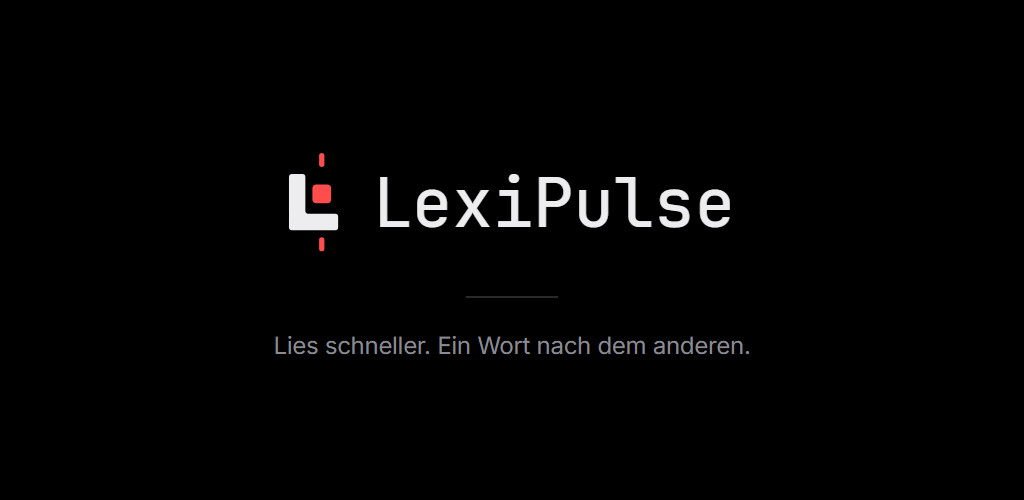
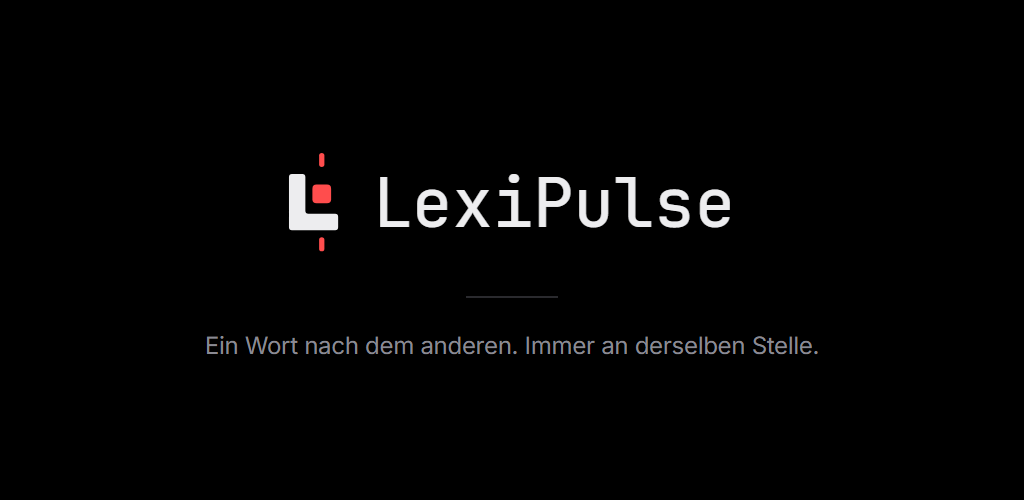
Seed the screenshot browser with a demo library
A live capture only beats a rebuilt template if the app has something to show. With an
empty IndexedDB the statistics screen renders zeros, and zeros under the headline
"see how much you really read" promise the opposite of what the picture delivers.

The capture now writes a public-domain library into the app's own origin before it
navigates. Library cards report the length of the real work rather than the length of
the excerpt, because "Die Verwandlung, 188 words, under 1 min" reads as a broken app.

Also drops the German feature-graphic line. "Lies schneller" is a promise about the
reader's result, and the store description says outright that this depends on the text
and the person. An advert contradicting its own product description is needless
exposure under UWG section 5.

Changed region(s): [[0.1875, 0.66, 0.8125, 0.72]]

diff --git a/packages/assets/src/seed.ts b/packages/assets/src/seed.ts
@@ -1,0 +1,248 @@
+/**
+ * Demo library for the store screenshots.
+ *
+ * A live capture of the real web app is only better than a rebuilt template if the app
+ * actually has something to show. An empty statistics screen under the headline
+ * "see how much you really read" is worse than no screenshot at all, so the capture
+ * seeds the browser's IndexedDB before it navigates.
+ *
+ * This is illustrative UI content, the way every store listing shows a populated app.
+ * It is not a claim about anyone else: no user counts, no ratings, no testimonials.
+ * The books are public domain.
+ */
+
+const DAY = 86_400_000;
+
+/** `YYYY-MM-DD` in local time — the key format `LexiStore.dayKey` writes. */
+function dayKey(timestamp: number): string {
+  const d = new Date(timestamp);
+  const month = String(d.getMonth() + 1).padStart(2, '0');
+  const day = String(d.getDate()).padStart(2, '0');
+  return `${d.getFullYear()}-${month}-${day}`;
+}
+
+interface SeedBook {
+  id: string;
+  title: string;
+  author: string;
+  source: 'epub' | 'pdf' | 'html';
+  language: string;
+  chapters: { title: string; text: string }[];
+  /**
+   * Length of the real work. The excerpt below is only what the reader would show on
+   * screen; a library card that says "188 Wörter · noch ca. unter 1 Min." next to
+   * "Die Verwandlung" would look broken, because no reader has a 188-word novella.
+   */
+  words: number;
+  /** Fraction read. */
+  percent: number;
+  /** Days ago the book was last opened. */
+  lastOpenedDaysAgo: number;
+}
+
+const BOOKS: SeedBook[] = [
+  {
+    id: 'epub_die-verwandlung_seed01',
+    title: 'Die Verwandlung',
+    author: 'Franz Kafka',
+    source: 'epub',
+    language: 'de',
+    words: 19_340,
+    percent: 0.23,
+    lastOpenedDaysAgo: 0,
+    chapters: [
+      {
+        title: 'Kapitel 1',
+        text: [
+          'Als Gregor Samsa eines Morgens aus unruhigen Träumen erwachte, fand er sich in seinem Bett zu einem ungeheueren Ungeziefer verwandelt. Er lag auf seinem panzerartig harten Rücken und sah, wenn er den Kopf ein wenig hob, seinen gewölbten, braunen, von bogenförmigen Versteifungen geteilten Bauch.',
+          'Seine vielen, im Vergleich zu seinem sonstigen Umfang kläglich dünnen Beine flimmerten ihm hilflos vor den Augen. Was ist mit mir geschehen, dachte er. Es war kein Traum. Sein Zimmer, ein richtiges, nur etwas zu kleines Menschenzimmer, lag ruhig zwischen den vier wohlbekannten Wänden.',
+          'Über dem Tisch, auf dem eine auseinandergepackte Musterkollektion von Tuchwaren ausgebreitet war, hing das Bild, das er vor kurzem aus einer illustrierten Zeitschrift ausgeschnitten und in einem hübschen, vergoldeten Rahmen untergebracht hatte.',
+        ].join('\n\n'),
+      },
+      {
+        title: 'Kapitel 2',
+        text: [
+          'Erst in der Dämmerung erwachte Gregor aus seinem schweren, ohnmachtsähnlichen Schlaf. Er wäre gewiß nicht viel später auch ohne Störung erwacht, denn er fühlte sich genügend ausgeruht und ausgeschlafen.',
+          'Ihm war, als sei ihm ein flüchtiger Schritt und ein vorsichtiges Schließen der zum Vorzimmer führenden Tür geweckt worden. Der Schein der elektrischen Straßenlampen lag bleich hier und da auf der Zimmerdecke und auf den höheren Teilen der Möbel.',
+        ].join('\n\n'),
+      },
+    ],
+  },
+  {
+    id: 'epub_effi-briest_seed02',
+    title: 'Effi Briest',
+    author: 'Theodor Fontane',
+    source: 'epub',
+    language: 'de',
+    words: 118_450,
+    percent: 0.61,
+    lastOpenedDaysAgo: 1,
+    chapters: [
+      {
+        title: 'Erstes Kapitel',
+        text: [
+          'In Front des schon seit Kurfürst Georg Wilhelm von der Familie von Briest bewohnten Herrenhauses zu Hohen-Cremmen fiel heller Sonnenschein auf die mittagsstille Dorfstraße, während nach der Park- und Gartenseite hin ein rechtwinklig angebauter Seitenflügel einen breiten Schatten warf.',
+          'Hier fiel zunächst auf einen kleinen, weiß und grün quadrierten Fliesengang, dahinter aber, mit einer kleinen Erhöhung, auf ein in drei Stufen ansteigendes Rondell mit einer Sonnenuhr in der Mitte.',
+          'Ein paar Schritte weiter, und man stand an dem großen, in seinen Umrissen kaum sichtbaren Teich, an dessen Rand eine Brücke lag, die zu einem Bootssteg führte.',
+        ].join('\n\n'),
+      },
+    ],
+  },
+  {
+    id: 'pdf_wahrnehmung-und-lesen_seed03',
+    title: 'Wahrnehmung und Lesen',
+    author: null as unknown as string,
+    source: 'pdf',
+    language: 'de',
+    words: 32_780,
+    percent: 0.08,
+    lastOpenedDaysAgo: 3,
+    chapters: [
+      {
+        title: 'Teil 1',
+        text: [
+          'Beim Lesen bewegt sich das Auge nicht gleichmäßig über die Zeile, sondern in kurzen Sprüngen, den Sakkaden, zwischen denen es für etwa zweihundert Millisekunden stillsteht. Nur während dieser Fixationen wird tatsächlich Information aufgenommen.',
+          'Die Stelle innerhalb eines Wortes, an der das Auge bevorzugt landet, liegt nicht in der Mitte, sondern etwas links davon. Von dort aus lässt sich das Wort am zuverlässigsten als Ganzes erkennen.',
+        ].join('\n\n'),
+      },
+    ],
+  },
+  {
+    id: 'html_warum-rsvp-funktioniert_seed04',
+    title: 'Warum RSVP funktioniert',
+    author: 'Anna Berg',
+    source: 'html',
+    language: 'de',
+    words: 1_240,
+    percent: 1,
+    lastOpenedDaysAgo: 6,
+    chapters: [
+      {
+        title: 'Abschnitt 1',
+        text: [
+          'Rapid Serial Visual Presentation zeigt Wörter nacheinander an derselben Bildschirmposition. Die Sakkade entfällt, weil es nichts mehr anzuspringen gibt, und der Blick bleibt auf einer Stelle stehen.',
+          'Entscheidend ist, dass der Erkennungspunkt jedes Wortes exakt auf derselben Spalte liegt. Wandert er, muss das Auge ihn jedes Mal neu suchen, und der Vorteil ist wieder aufgebraucht.',
+        ].join('\n\n'),
+      },
+    ],
+  },
+];
+
+/**
+ * Key/value pairs for the `kv` object store of the `lexipulse` IndexedDB database,
+ * exactly as `LexiStore` writes them.
+ */
+export function seedEntries(now = Date.now()): [string, string][] {
+  const entries: [string, string][] = [['lexi:schema', '1']];
+
+  let totalTokensRead = 0;
+
+  for (const book of BOOKS) {
+    const chapters = book.chapters.map((chapter, index) => ({
+      id: `c${index}`,
+      title: chapter.title,
+      text: chapter.text,
+      startToken: 0,
+      tokenCount: 0,
+    }));
+    // The excerpt is what the reader renders; words is what the library reports.
+    const wordCount = book.words;
+    const updatedAt = now - book.lastOpenedDaysAgo * DAY;
+
+    entries.push([
+      `lexi:doc:${book.id}`,
+      JSON.stringify({
+        id: book.id,
+        title: book.title,
+        author: book.author ?? null,
+        source: book.source,
+        origin: null,
+        language: book.language,
+        chapters,
+        totalTokens: wordCount,
+        wordCount,
+        coverDataUrl: null,
+        createdAt: updatedAt - 4 * DAY,
+        updatedAt,
+        importReport: {
+          source: book.source,
+          rawSections: chapters.length,
+          removed: {
+            headers: book.source === 'pdf' ? 214 : 0,
+            footers: book.source === 'pdf' ? 107 : 0,
+            pageNumbers: book.source === 'pdf' ? 107 : 0,
+            tableRows: book.source === 'pdf' ? 63 : 0,
+            artifacts: book.source === 'pdf' ? 41 : 3,
+          },
+          dehyphenated: book.source === 'pdf' ? 386 : 0,
+          notes: [],
+          durationMs: 812,
+        },
+      }),
+    ]);
+
+    const tokenIndex = Math.round(wordCount * book.percent);
+    entries.push([
+      `lexi:progress:${book.id}`,
+      JSON.stringify({
+        documentId: book.id,
+        tokenIndex,
+        chapterIndex: Math.min(
+          chapters.length - 1,
+          Math.floor(book.percent * chapters.length),
+        ),
+        percent: book.percent,
+        updatedAt,
+        msRead: Math.round((tokenIndex / 380) * 60_000),
+      }),
+    ]);
+  }
+
+  // Twelve consecutive days ending today, so a recomputed streak lands on twelve too.
+  const daily: Record<string, number> = {};
+  const pattern = [1840, 2260, 960, 3120, 1480, 2040, 780, 2680, 1320, 1960, 2410, 1150];
+  for (let i = 0; i < pattern.length; i += 1) {
+    const words = pattern[i] as number;
+    daily[dayKey(now - i * DAY)] = words;
+    totalTokensRead += words;
+  }
+  // Earlier, sparser history for the heatmap.
+  for (let i = 14; i < 84; i += 1) {
+    if (i % 3 === 0) continue;
+    const words = 400 + ((i * 137) % 2200);
+    daily[dayKey(now - i * DAY)] = words;
+    totalTokensRead += words;
+  }
+
+  const averageWpm = 382;
+  const totalMsRead = Math.round((totalTokensRead / averageWpm) * 60_000);
+
+  entries.push([
+    'lexi:stats',
+    JSON.stringify({
+      totalMsRead,
+      totalTokensRead,
+      documentsStarted: BOOKS.length,
+      documentsFinished: BOOKS.filter((b) => b.percent >= 1).length,
+      averageWpm,
+      daily,
+      streakDays: 12,
+    }),
+  ]);
+
+  entries.push([
+    'lexi:bm:epub_die-verwandlung_seed01:bm-seed-1',
+    JSON.stringify({
+      id: 'bm-seed-1',
+      documentId: 'epub_die-verwandlung_seed01',
+      tokenIndex: 18,
+      chapterIndex: 0,
+      preview: 'zu einem ungeheueren Ungeziefer verwandelt',
+      note: null,
+      createdAt: now - 2 * DAY,
+    }),
+  ]);
+
+  return entries;
+}
+

diff --git a/packages/assets/src/store-screenshots.ts b/packages/assets/src/store-screenshots.ts
@@ -25,7 +25,8 @@ import { mkdirSync, readFileSync, existsSync, writeFileSync } from 'node:fs';
 import { join, relative } from 'node:path';
 import { pathToFileURL } from 'node:url';
 import { chromium } from 'playwright';
-import type { Browser } from 'playwright';
+import type { Browser, Page } from 'playwright';
+import { seedEntries } from './seed.js';
 
 import { REPO_ROOT } from './fonts.js';
 import { SCREENS } from './templates/screens.js';
@@ -190,6 +191,53 @@ async function reachable(url: string, timeoutMs = 2000): Promise<boolean> {
   }
 }
 
+/**
+ * Give the app a library before photographing it.
+ *
+ * A live capture only beats a rebuilt template if the app has something to show. With an
+ * empty IndexedDB the statistics screen renders zeros, and zeros under the headline
+ * "see how much you really read" promise the opposite of what the picture delivers.
+ *
+ * Seeding has to happen on the app's own origin — IndexedDB is origin-scoped — so we land
+ * on the root first, write, and only then navigate to the screen.
+ */
+async function seedLibrary(page: Page, origin: string): Promise<void> {
+  await page.goto(origin, { waitUntil: 'domcontentloaded', timeout: 20_000 });
+  const written = await page.evaluate(async (entries: [string, string][]) => {
+    // Runs in the page. Writes straight into the `kv` object store the IndexedDB driver
+    // uses, creating the database at the driver's version if the app has not opened it.
+    const db = await new Promise<IDBDatabase>((resolve, reject) => {
+      const request = indexedDB.open('lexipulse', 1);
+      request.onupgradeneeded = () => {
+        if (!request.result.objectStoreNames.contains('kv')) {
+          request.result.createObjectStore('kv');
+        }
+      };
+      request.onsuccess = () => resolve(request.result);
+      request.onerror = () => reject(request.error);
+    });
+    await new Promise<void>((resolve, reject) => {
+      const tx = db.transaction('kv', 'readwrite');
+      const store = tx.objectStore('kv');
+      for (const [key, value] of entries) store.put(value, key);
+      tx.oncomplete = () => resolve();
+      tx.onerror = () => reject(tx.error);
+    });
+    const count = await new Promise<number>((resolve, reject) => {
+      const tx = db.transaction('kv', 'readonly');
+      const request = tx.objectStore('kv').count();
+      request.onsuccess = () => resolve(request.result);
+      request.onerror = () => reject(request.error);
+    });
+    db.close();
+    return count;
+  }, seedEntries());
+
+  if (written < seedEntries().length) {
+    throw new Error(`Seeding wrote only ${written} keys; the capture would show an empty app.`);
+  }
+}
+
 async function openScreen(browser: Browser, url: string, locale: Locale) {
   const context = await browser.newContext({
     viewport: { width: 390, height: 844 },
@@ -199,6 +247,7 @@ async function openScreen(browser: Browser, url: string, locale: Locale) {
     locale: locale === 'de' ? 'de-DE' : 'en-US',
   });
   const page = await context.newPage();
+  await seedLibrary(page, new URL(url).origin);
   await page.goto(url, { waitUntil: 'networkidle', timeout: 20_000 });
   await page.addStyleTag({ content: HIDE_DEV_CHROME });
   return { context, page };

diff --git a/packages/assets/src/brand.ts b/packages/assets/src/brand.ts
@@ -20,7 +20,13 @@ import { computeOrp } from '@lexipulse/core';
 export const BRAND = {
   name: 'LexiPulse',
   tagline: 'Ultimate RSVP & Document Reader',
-  taglineDe: 'Lies schneller. Ein Wort nach dem anderen.',
+  /**
+   * Describes what the app does, not what the reader will achieve. "Lies schneller"
+   * would be a promise about the user's result, and how much faster somebody reads
+   * depends on the text and the person — the store description says exactly that. An
+   * advert that contradicts the product description is needless § 5 UWG exposure.
+   */
+  taglineDe: 'Ein Wort nach dem anderen. Immer an derselben Stelle.',
   domain: 'lexipulse.de',
 } as const;
 
